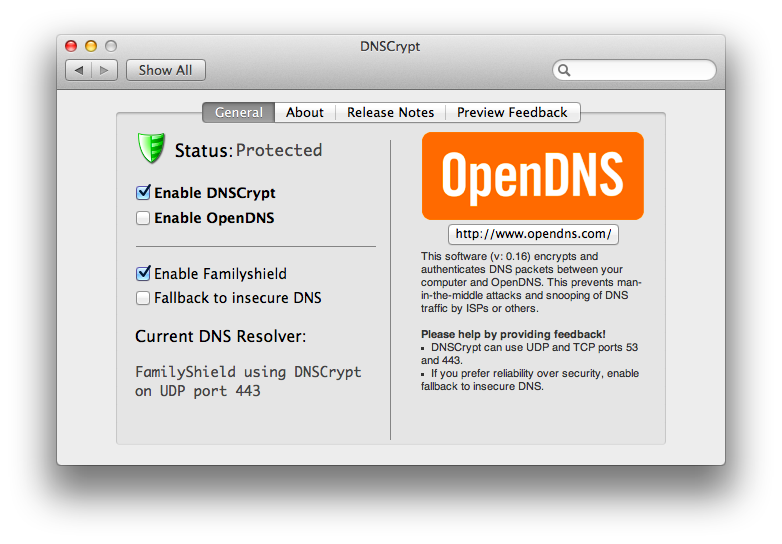
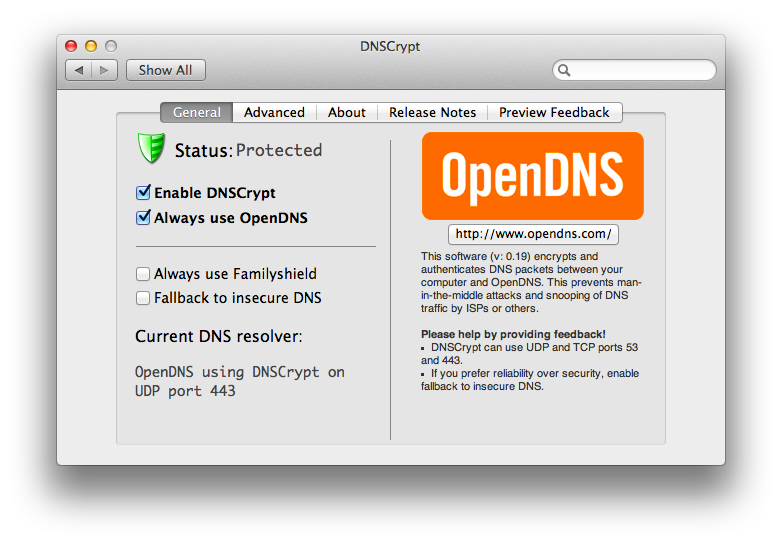
0.19

diff --git a/index.html b/index.html
@@ -22,8 +22,8 @@
         </header>
         <section id="downloads" class="clearfix">
           <a
-href="https://github.com/downloads/opendns/dnscrypt-osx-client/dnscrypt-osx-client-0.16.dmg"
-id="download-zip" class="button"><span>Download 0.16</span></a>
+href="https://github.com/downloads/opendns/dnscrypt-osx-client/dnscrypt-osx-client-0.19.dmg"
+id="download-zip" class="button"><span>Download 0.19</span></a>
           <a href="http://dnscrypt.org" class="button"><span>DNSCrypt</span></a>
           <a href="https://github.com/opendns/dnscrypt-osx-client" id="view-on-github"
           class="button"><span>View on GitHub</span></a>
@@ -56,7 +56,11 @@ man-in-the-middle attacks.</p>
 simply provides a method for securely encrypting communication between
 OpenDNS customers and OpenDNS servers in our data centers.</p>
         </section>
-        
+
+        <section class="screenshots">
+          <img src="images/advanced.png" alt="Advanced preferences" />
+        </section>
+
         <footer>
           The OSX user interface for OpenDNS is maintained by <a href="https://github.com/opendns">opendns</a><br>
           This page was generated by <a href="http://pages.github.com">GitHub Pages</a>. Tactile theme by <a href="http://twitter.com/jasonlong">Jason Long</a>.
